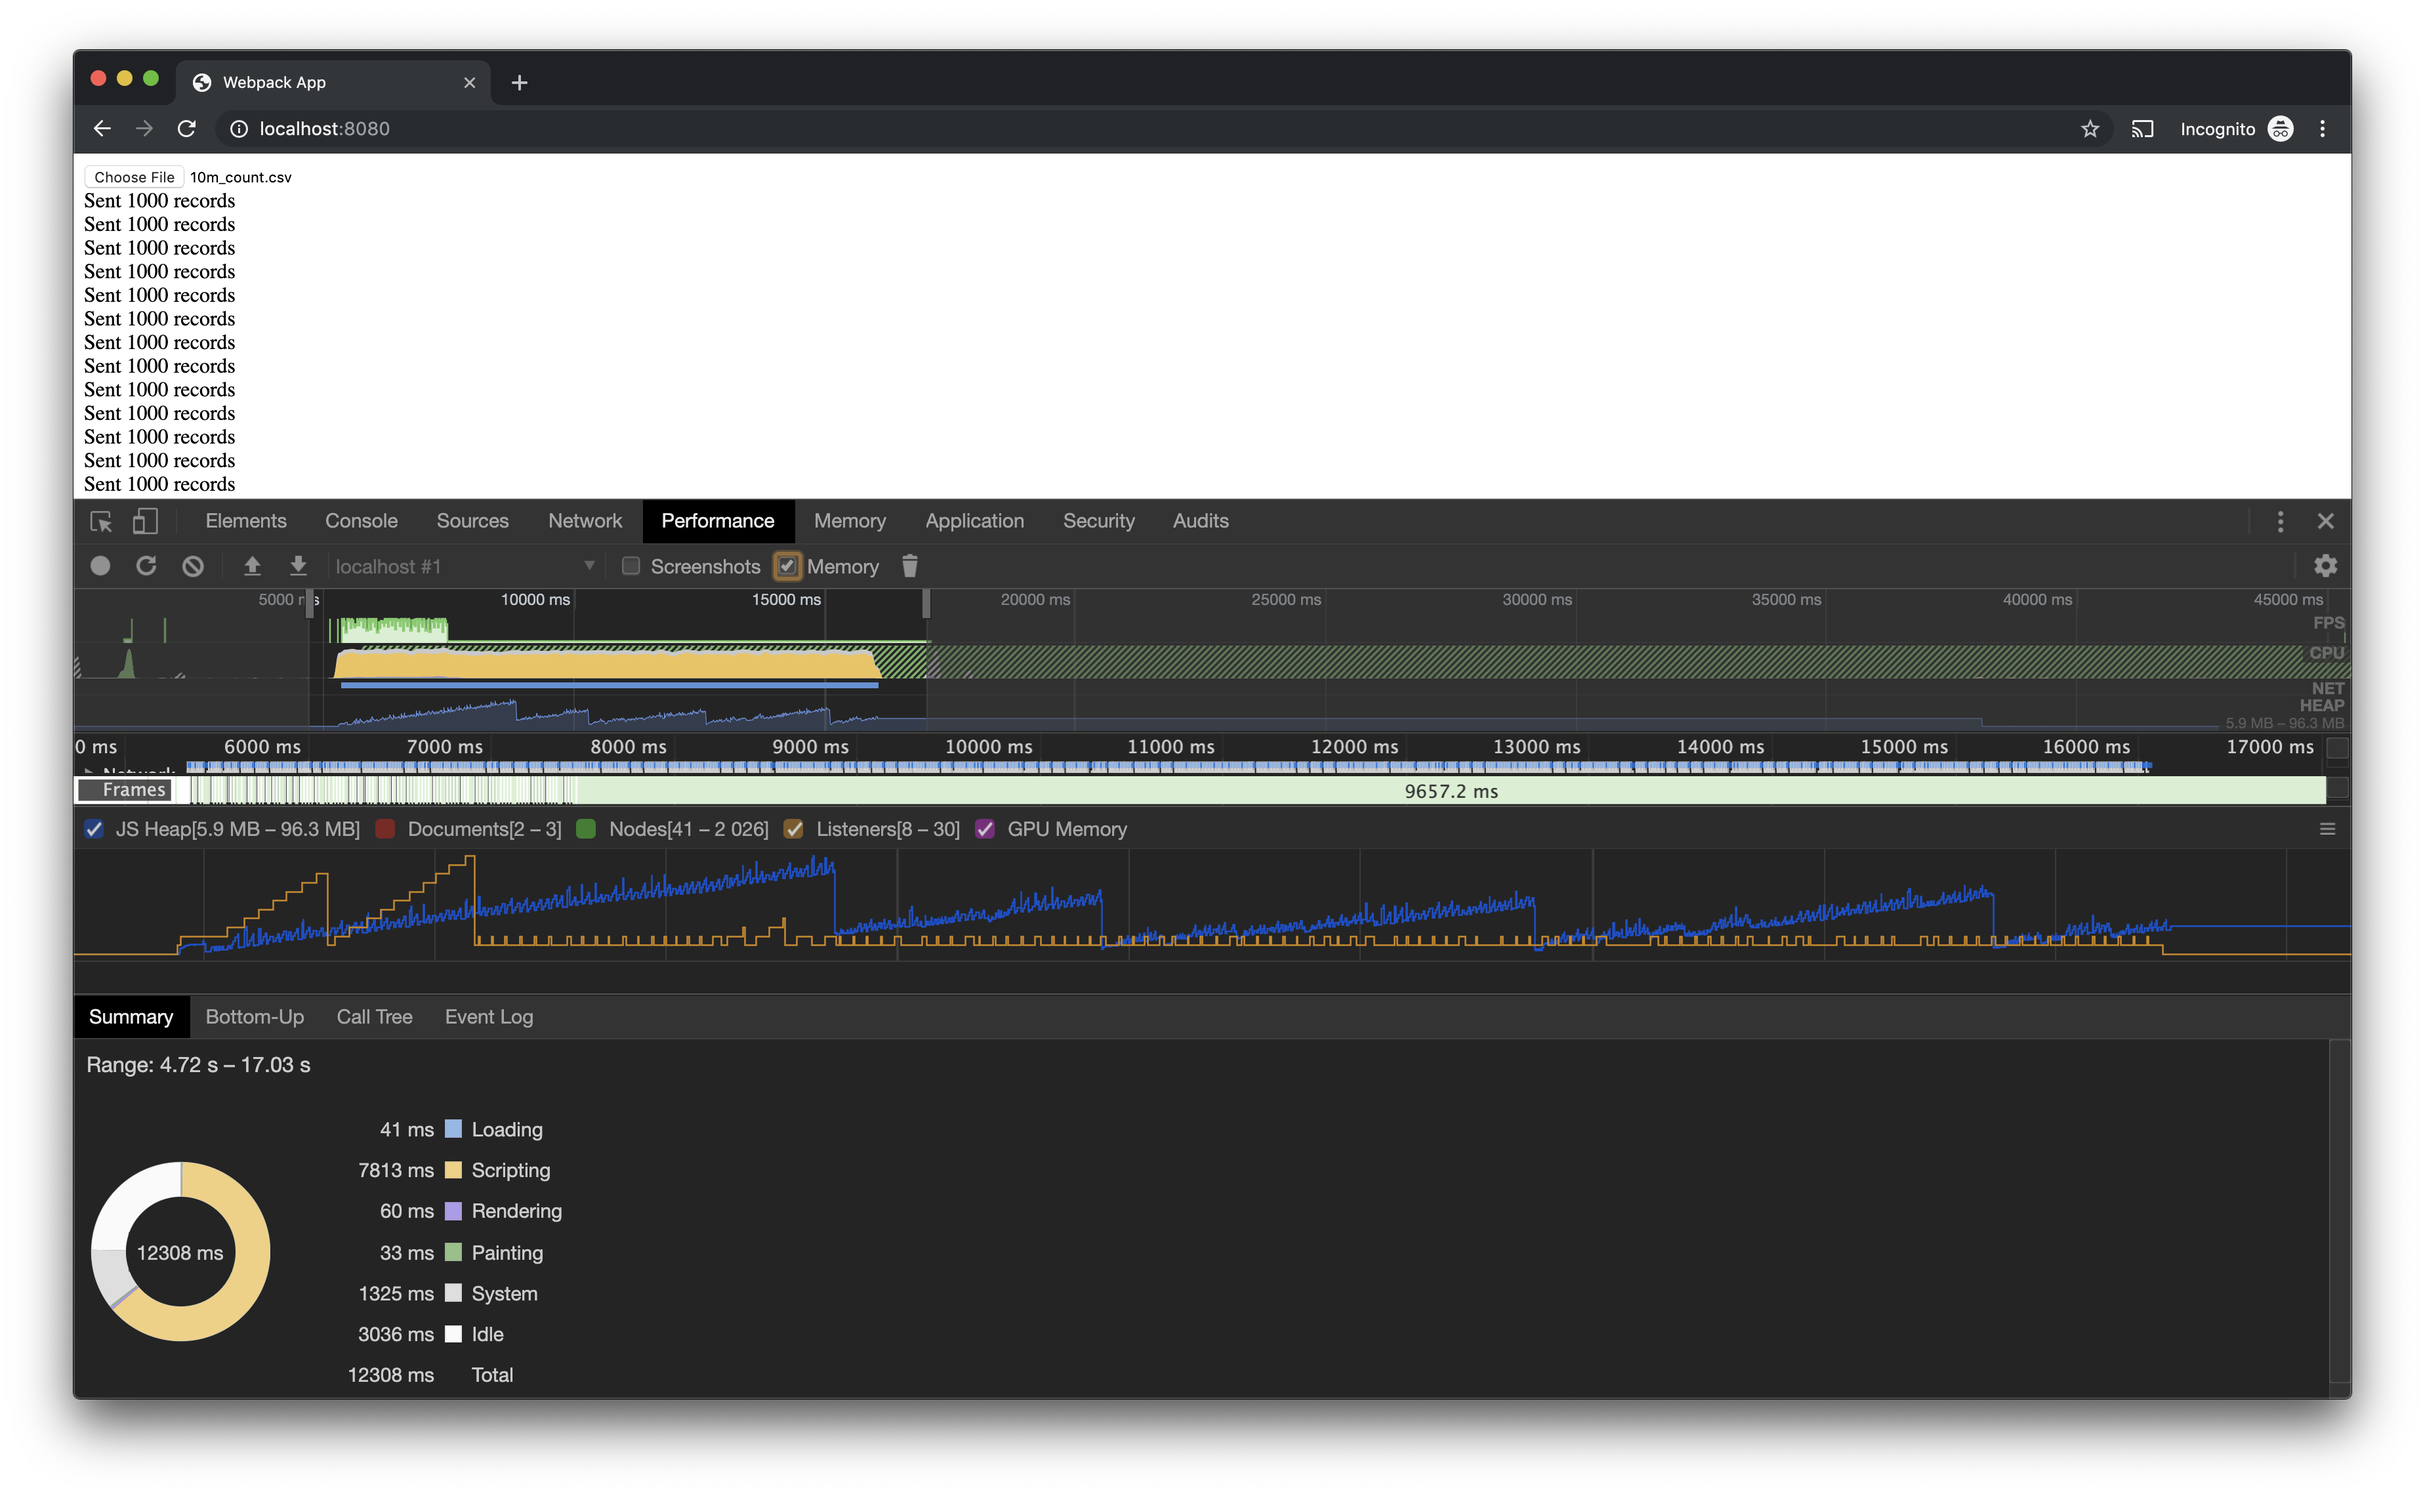
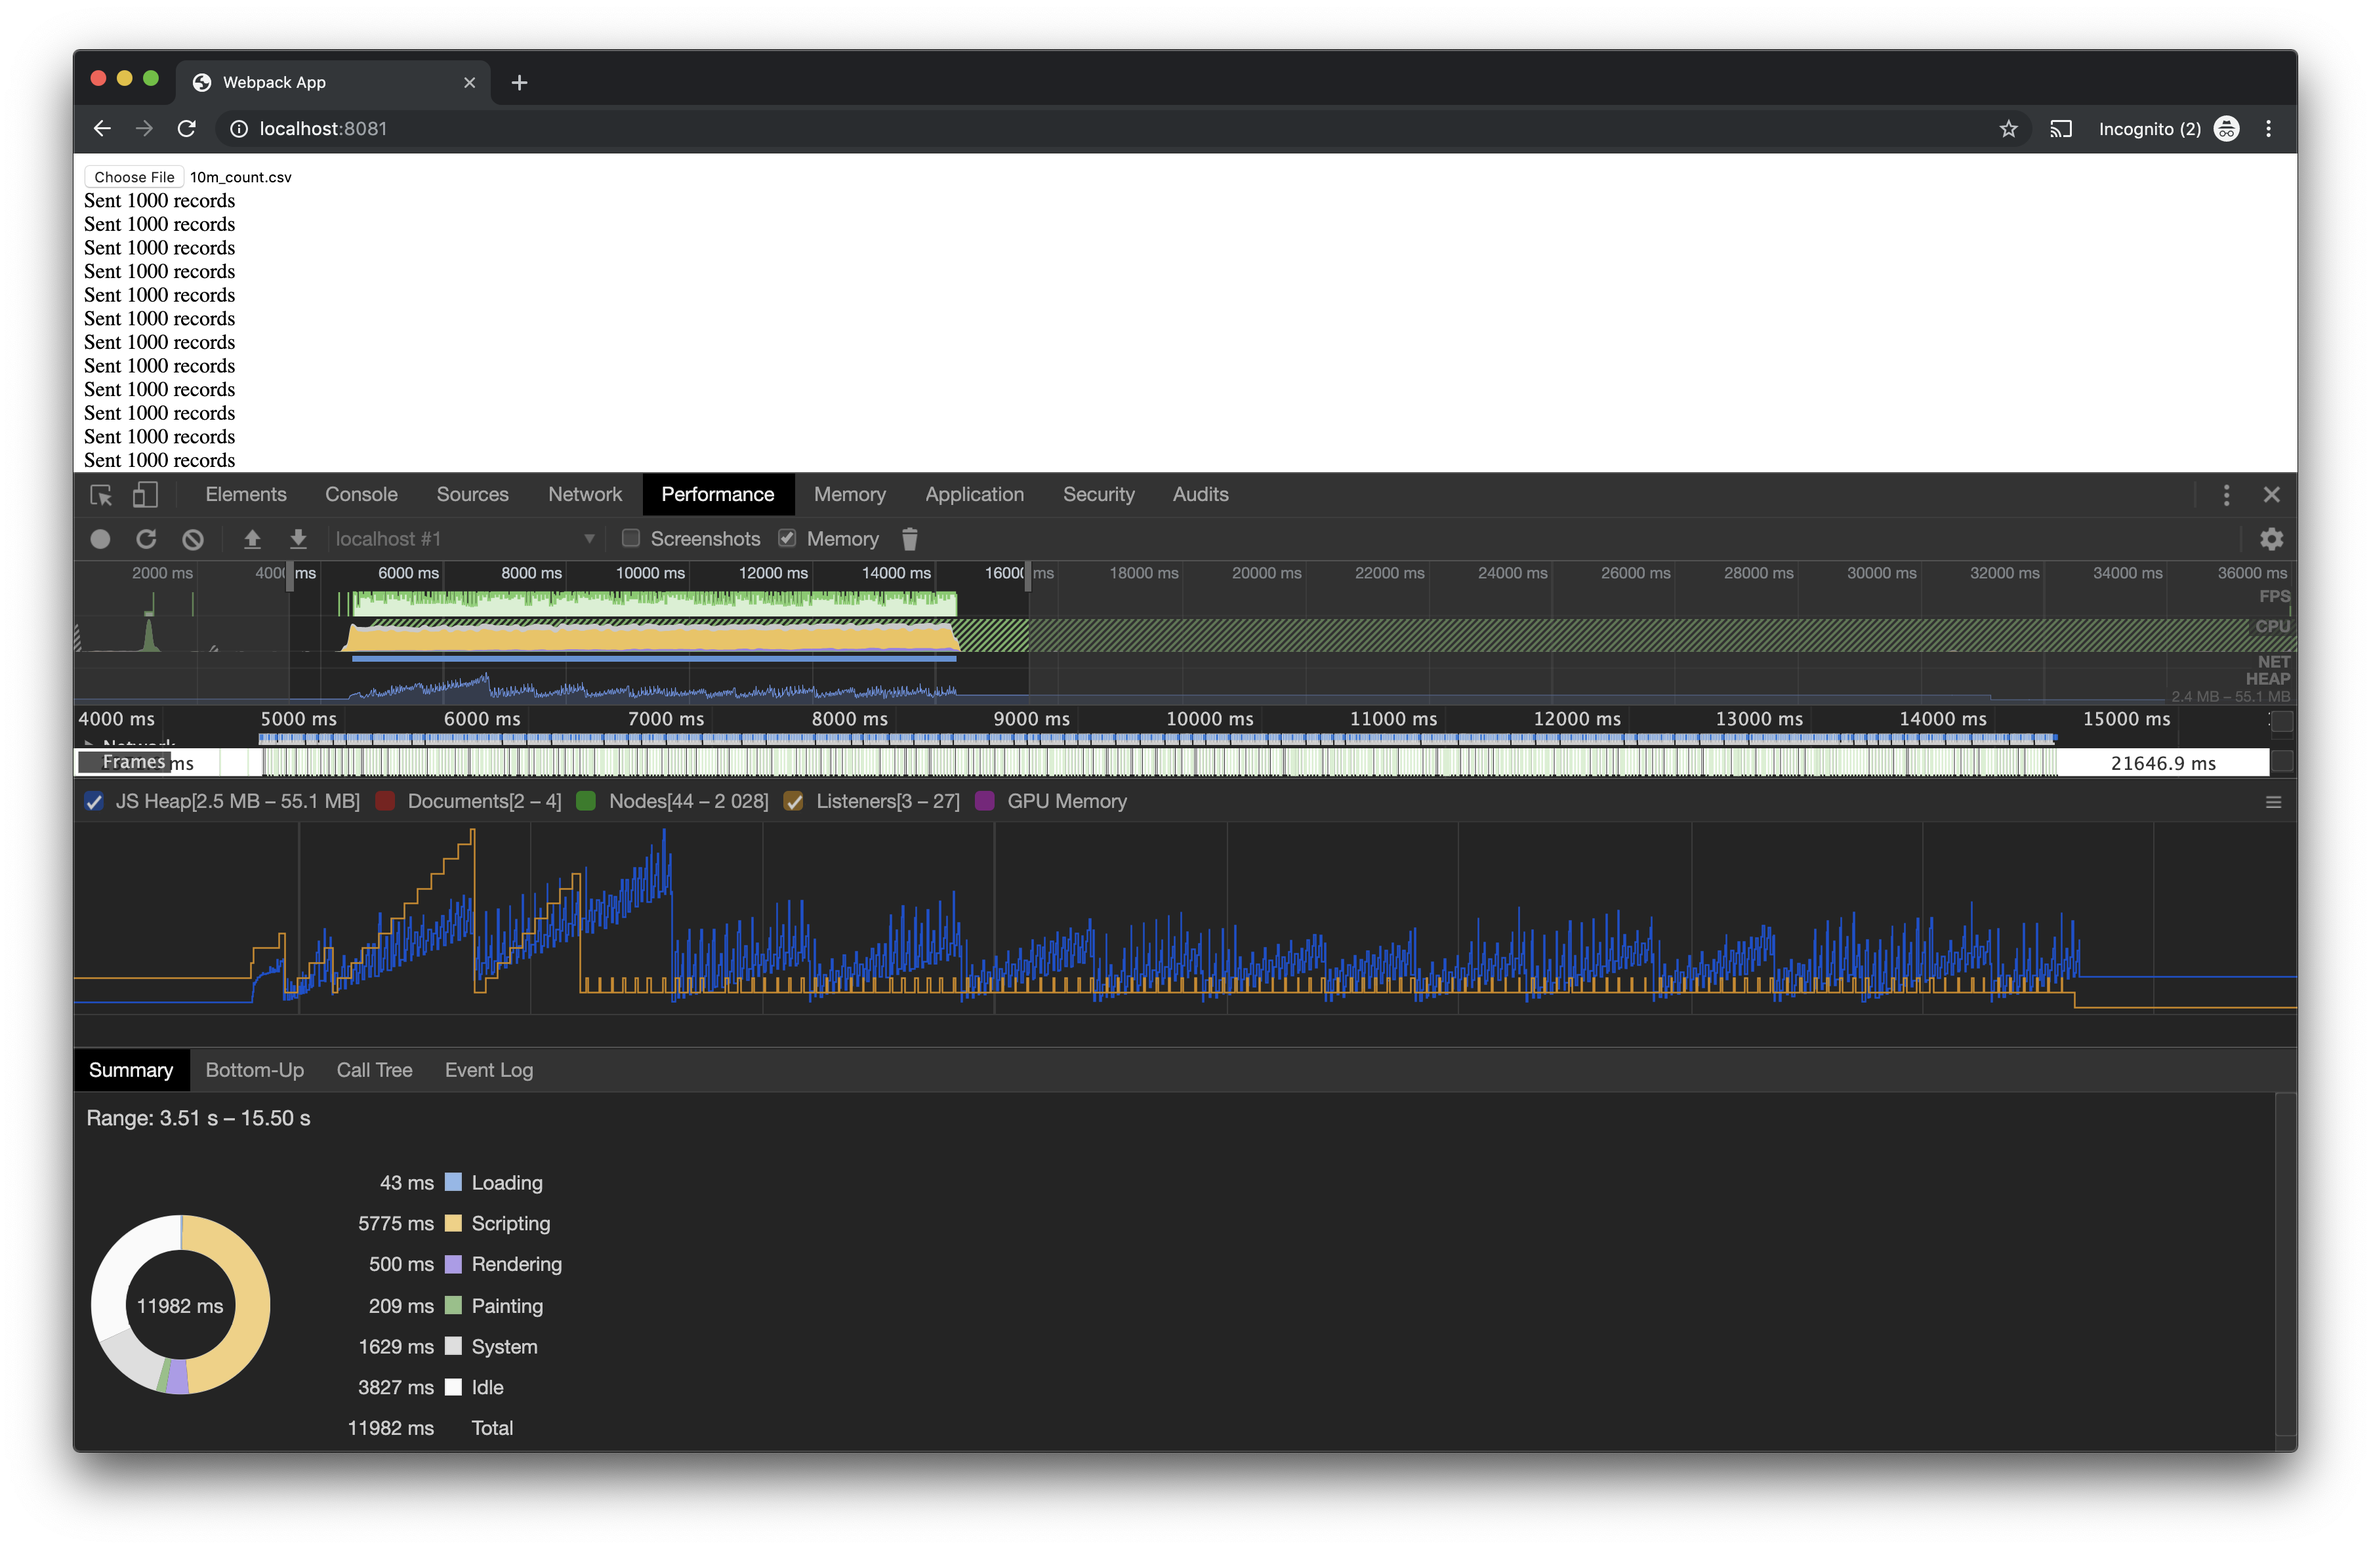
feat: production mode, updated perf stats

diff --git a/webpack.config.js b/webpack.config.js
@@ -1,6 +1,8 @@
 const path = require('path');
+const DuplicatePackageCheckerPlugin = require('duplicate-package-checker-webpack-plugin');
 const HtmlWebpackPlugin = require('html-webpack-plugin');
 const OpenBrowserPlugin = require('open-browser-webpack-plugin');
+const StatsWebpackPlugin = require('stats-webpack-plugin');
 
 module.exports = {
   devServer: {
@@ -8,6 +10,7 @@ module.exports = {
     host: '0.0.0.0'
   },
   entry: './client.js',
+  mode: 'development',
   module: {
     rules: [
       {
@@ -42,8 +45,19 @@ module.exports = {
       }
     ]
   },
+  node: {
+    fs: 'empty'
+  },
   plugins: [
+    new DuplicatePackageCheckerPlugin(),
     new HtmlWebpackPlugin(),
-    new OpenBrowserPlugin()
-  ]
+    new OpenBrowserPlugin(),
+    new StatsWebpackPlugin('stats.json')
+  ],
+  resolve: {
+    alias: {
+      bluebird: 'core-js/fn/promise'
+    },
+    mainFields: ['module', 'main']
+  }
 };

diff --git a/dist/server.js b/dist/server.js
@@ -1,0 +1,26 @@
+const express = require('express');
+const bodyParser = require('body-parser');
+const app = express();
+
+app.use(bodyParser.json());
+
+app.use((req, res, next) => {
+  res.setHeader('Access-Control-Allow-Origin', 'http://localhost:8080');
+  res.setHeader('Access-Control-Allow-Headers', 'Content-Type');
+  next();
+})
+
+app.post('/', (req, res) => {
+  console.log(
+    'record_count',
+    req.body.records.length,
+    'payload_size',
+    JSON.stringify(req.body).length
+  );
+  res.writeHead(200, {'Content-Type': 'application/json'});
+  res.end('{"ok": "true"}');
+});
+
+app.use(express.static(__dirname));
+
+app.listen(8081, () => console.log('Listening on http://0.0.0.0:8081/'));

diff --git a/client.js b/client.js
@@ -34,6 +34,9 @@ class MassCreateQueue {
     const payload = `{"records":[${this.data.join(',')}]}`;
     await fetch(url, {
       method: 'POST',
+      headers: {
+        'Content-Type': 'application/json'
+      },
       body: payload
     });
     const msg = `<div>Sent ${this.data.length} records</div>`;

diff --git a/README.md b/README.md
@@ -22,6 +22,13 @@ npm install
 npm start
 ```
 
+# Production Mode
+
+```
+npm run build
+npm run serve
+```
+
 Your browser will automatically open at http://0.0.0.0:8080/.
 
 # How it Works
@@ -42,4 +49,4 @@ The responsibility of batching the data to the service (per the criteria outline
 
 ![performance.png](performance.png)
 
-Uploading 1 million records occurs from ~4 to 17 seconds. Garbage collection periodically occurs, suggesting there are no memory leaks.
+Uploading 1 million records occurs from ~5 to 15 seconds (production build). Garbage collection periodically occurs, suggesting there are no memory leaks.
